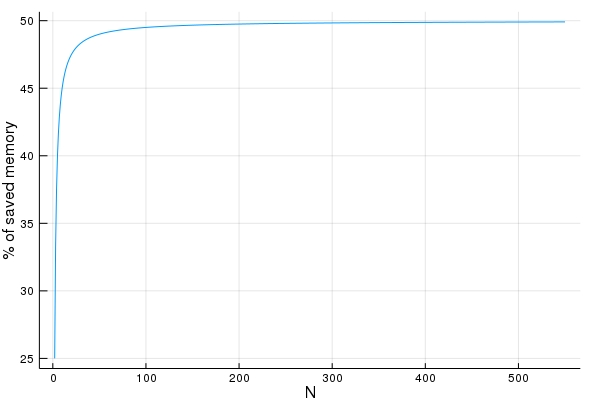
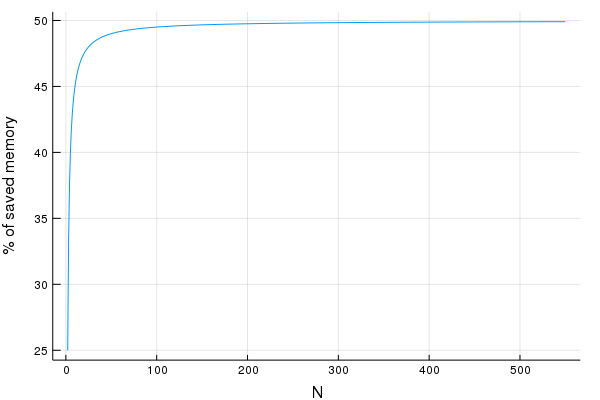
build based on (not-git-repo)

diff --git a/dev/index.html b/dev/index.html
@@ -21,13 +21,7 @@ plot(      2:550,
            N -&gt; 100.0 - ( 100.0 * div(N*(N+1), 2) / (N*N) ),
            xlab = &quot;N&quot;,
            ylab = &quot;% of saved memory&quot;,
-           legend = nothing        )</code></pre><pre><code class="language-none">/home/travis/.julia/packages/GR/wFd9A/src/../deps/gr/bin/gksqt: error while loading shared libraries: libQt5Widgets.so.5: cannot open shared object file: No such file or directory
-connect: Connection refused
-GKS: can&#39;t connect to GKS socket application
-Did you start &#39;gksqt&#39;?
-
-GKS: Open failed in routine OPEN_WS
-GKS: GKS not in proper state. GKS must be either in the state WSOP or WSAC in routine ACTIVATE_WS</code></pre></div><p><img src="curve.png" alt/></p><p>As you can see in the schematic diagram, the difference between <code>PairwiseListMatrix{T, true, VT}</code> and <code>PairwiseListMatrix{T, false, VT}</code> is where the diagonal values are stored. All <code>PairwiseListMatrix{T, diagonal, VT}</code> have a <code>list</code> field for storing the values. If <code>diagonal</code> is true, the diagonal values are included in the <code>list</code> (i.e. yellow value) and the <code>diag</code> vector is empty. But if the <code>diagonal</code> value is <code>false</code> the diagonal values are stored in the <code>diag</code> vector.  </p><pre><code class="language-julia">mutable struct PairwiseListMatrix{T,diagonal,VT} &lt;: AbstractArray{T, 2}
+           legend = nothing        )</code></pre></div><p><img src="curve.png" alt/></p><p>As you can see in the schematic diagram, the difference between <code>PairwiseListMatrix{T, true, VT}</code> and <code>PairwiseListMatrix{T, false, VT}</code> is where the diagonal values are stored. All <code>PairwiseListMatrix{T, diagonal, VT}</code> have a <code>list</code> field for storing the values. If <code>diagonal</code> is true, the diagonal values are included in the <code>list</code> (i.e. yellow value) and the <code>diag</code> vector is empty. But if the <code>diagonal</code> value is <code>false</code> the diagonal values are stored in the <code>diag</code> vector.  </p><pre><code class="language-julia">mutable struct PairwiseListMatrix{T,diagonal,VT} &lt;: AbstractArray{T, 2}
     list::VT
     diag::VT
     nelements::Int
@@ -85,10 +79,4 @@ nplm = setlabels(plm, [&quot;A&quot;,&quot;B&quot;,&quot;C&quot;,&quot;D&quot;])
 
 using Plots
 gr()
-plot(nplm)</code></pre><pre><code class="language-none">/home/travis/.julia/packages/GR/wFd9A/src/../deps/gr/bin/gksqt: error while loading shared libraries: libQt5Widgets.so.5: cannot open shared object file: No such file or directory
-connect: Connection refused
-GKS: can&#39;t connect to GKS socket application
-Did you start &#39;gksqt&#39;?
-
-GKS: Open failed in routine OPEN_WS
-GKS: GKS not in proper state. GKS must be either in the state WSOP or WSAC in routine ACTIVATE_WS</code></pre></div><p><img src="heatmap.png" alt/>  </p><h2><a class="nav-anchor" id="Benchmark-1" href="#Benchmark-1">Benchmark</a></h2><p><code>PairwiseListMatrix</code> is faster than a full matrix to make operation like <code>sum</code> and <code>mean</code> in the whole matrix, since it is cache efficient. However it is slower than a full matrix for reducing along dimensions.</p><ul><li><a href="http://nbviewer.ipython.org/github/diegozea/PairwiseListMatrices.jl/blob/master/test/creation_bech.ipynb">Creation benchmark</a></li><li><a href="http://nbviewer.ipython.org/github/diegozea/PairwiseListMatrices.jl/blob/master/test/stats_bench.ipynb">Statistics benchmark</a></li></ul><footer><hr/><a class="next" href="api/"><span class="direction">Next</span><span class="title">API</span></a></footer></article></body></html>
+plot(nplm)</code></pre></div><p><img src="heatmap.png" alt/>  </p><h2><a class="nav-anchor" id="Benchmark-1" href="#Benchmark-1">Benchmark</a></h2><p><code>PairwiseListMatrix</code> is faster than a full matrix to make operation like <code>sum</code> and <code>mean</code> in the whole matrix, since it is cache efficient. However it is slower than a full matrix for reducing along dimensions.</p><ul><li><a href="http://nbviewer.ipython.org/github/diegozea/PairwiseListMatrices.jl/blob/master/test/creation_bech.ipynb">Creation benchmark</a></li><li><a href="http://nbviewer.ipython.org/github/diegozea/PairwiseListMatrices.jl/blob/master/test/stats_bench.ipynb">Statistics benchmark</a></li></ul><footer><hr/><a class="next" href="api/"><span class="direction">Next</span><span class="title">API</span></a></footer></article></body></html>
